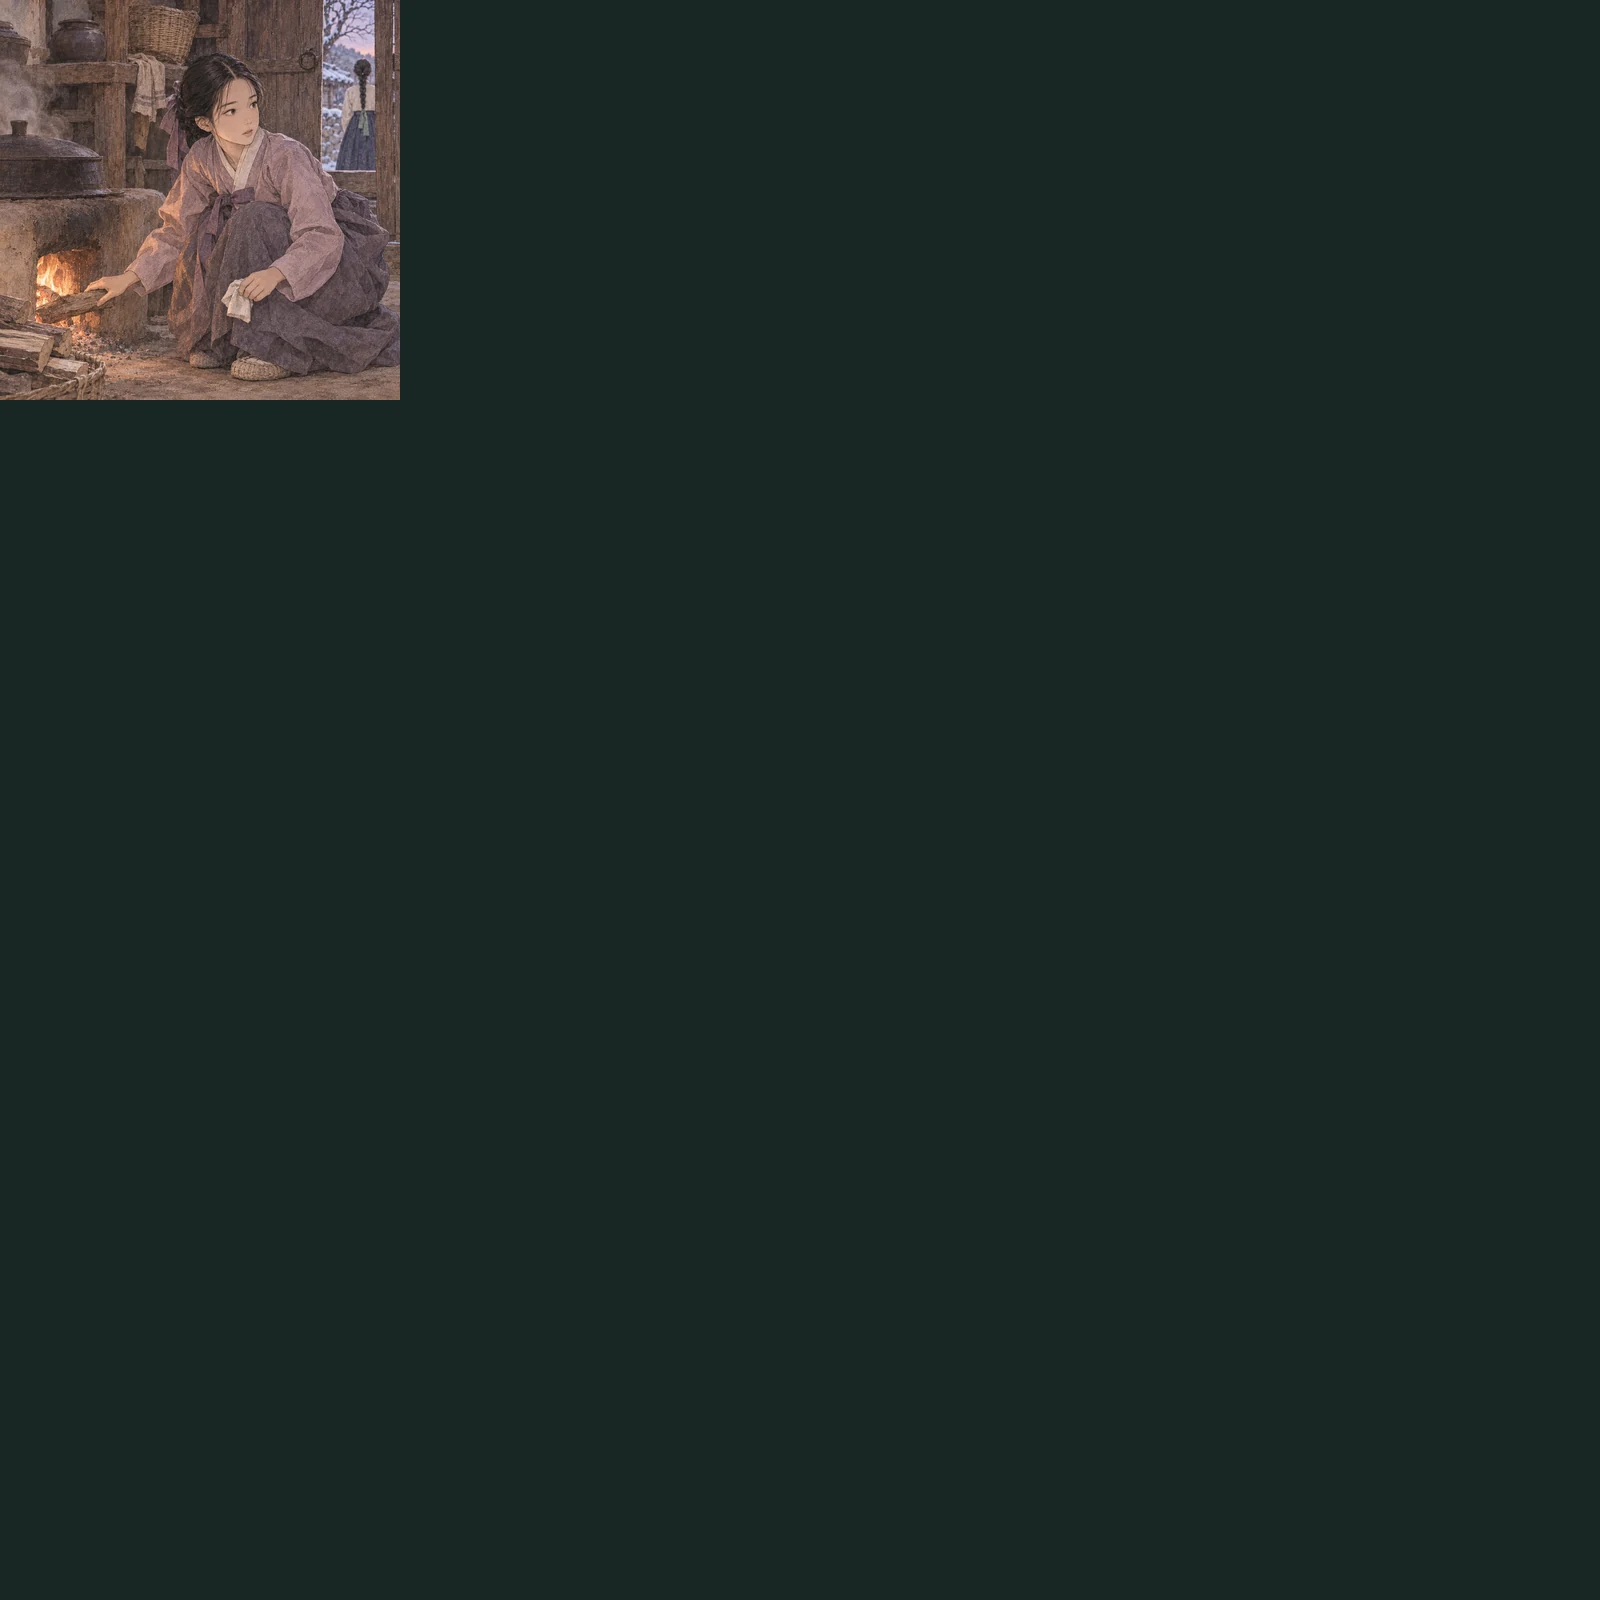
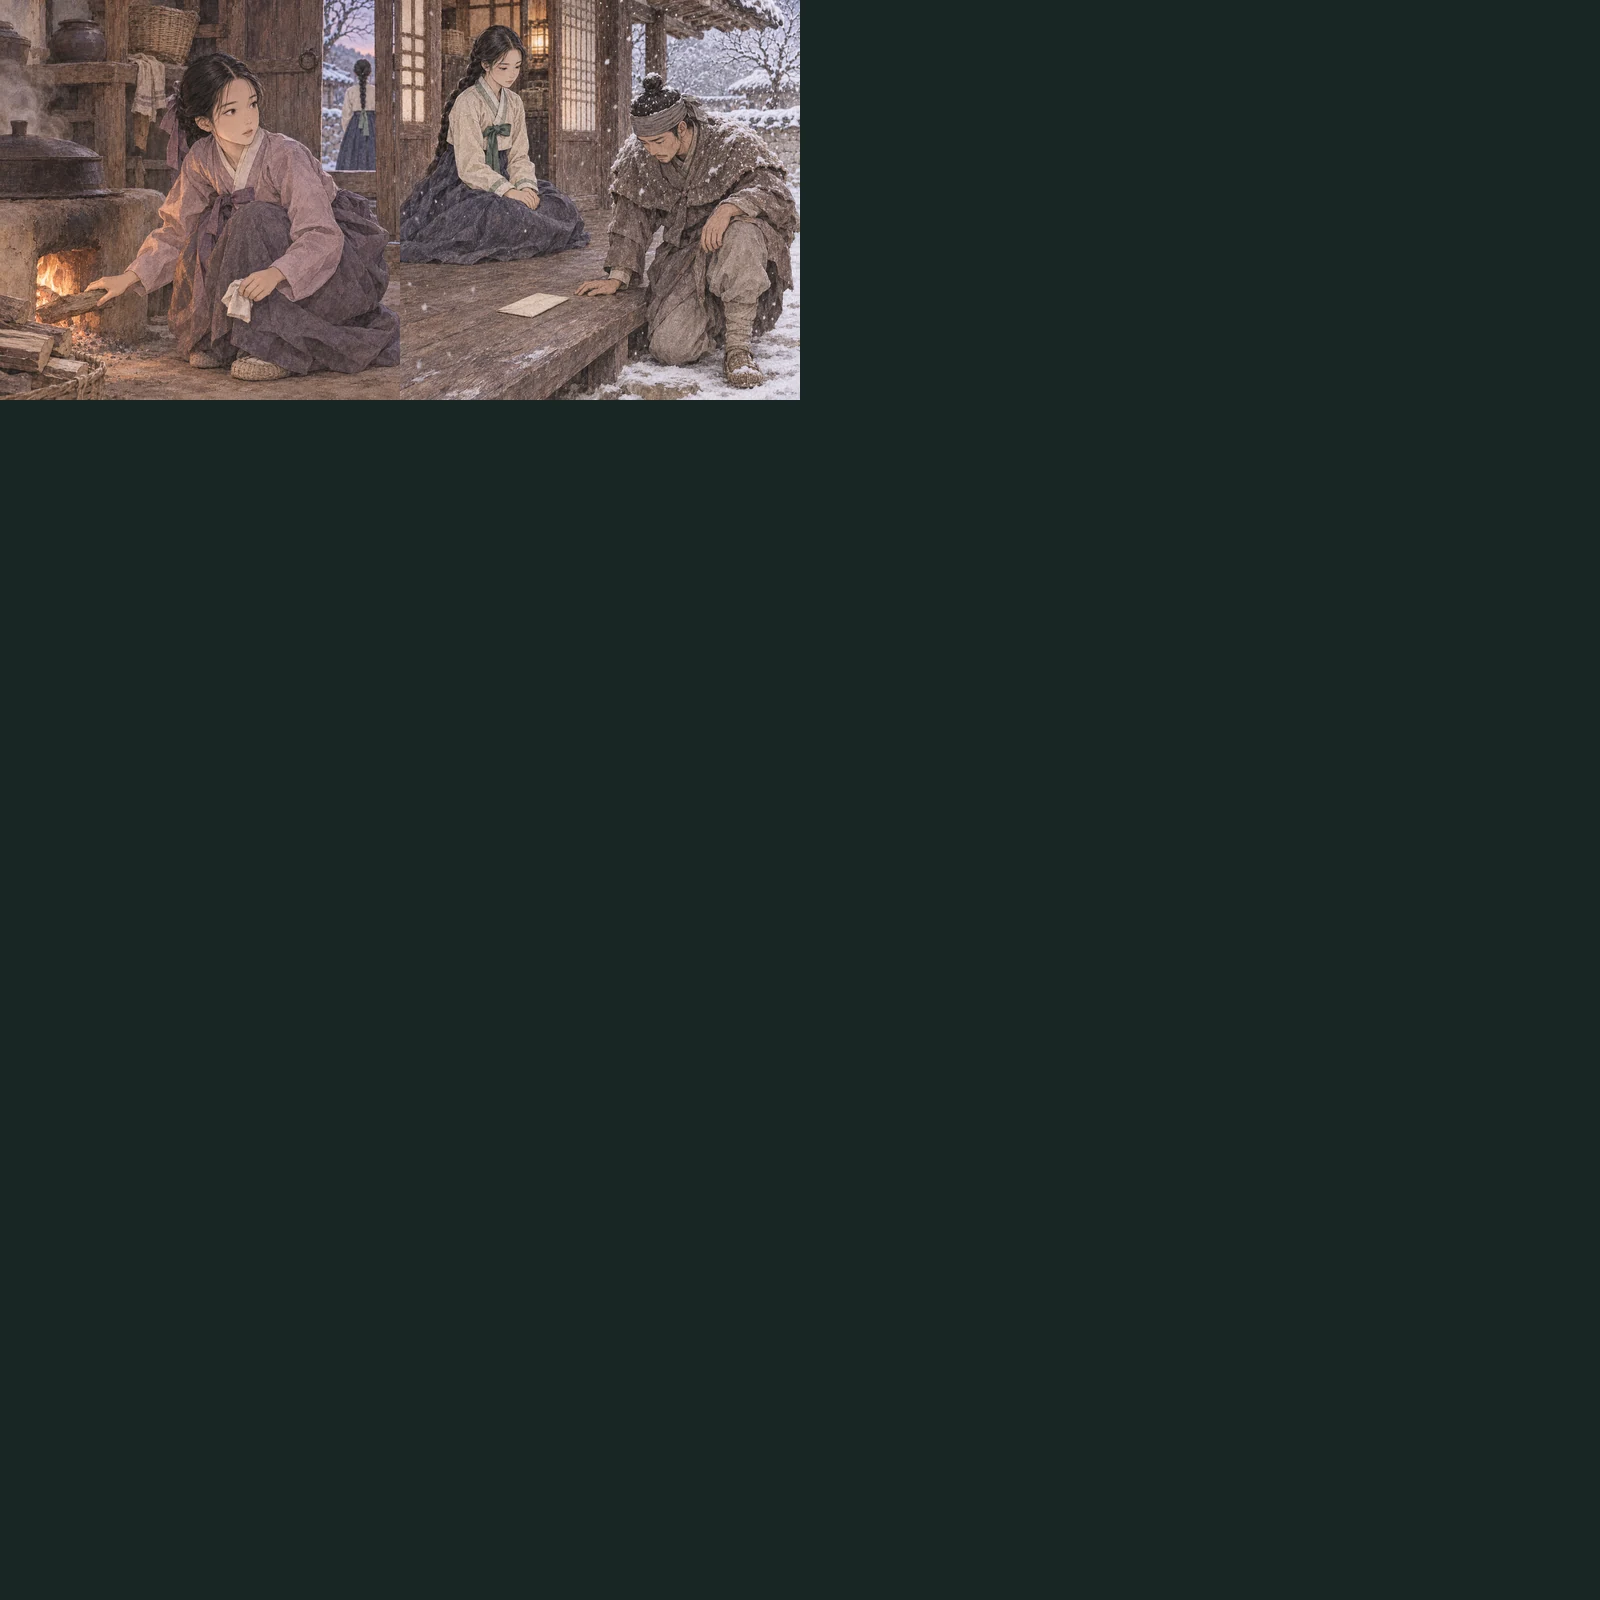
Season 2: add S2-02 (Seogyeom delivering the letter at the relay station)
Claude-Session: https://claude.ai/code/session_01VZgG2bX25gLRz4FyidLT13

Changed region(s): [[0.25, 0.0, 0.5, 0.25]]

diff --git a/site/season-2-new-slots.js b/site/season-2-new-slots.js
@@ -1,2 +1,2 @@
 // tools/build-new-cuts.py가 만든다. season-2-new.webp에 실제로 들어간 새 컷과 칸 번호.
-var NEW_CUT_SLOTS = {'S2-01':0};
+var NEW_CUT_SLOTS = {'S2-01':0,'S2-02':1};
